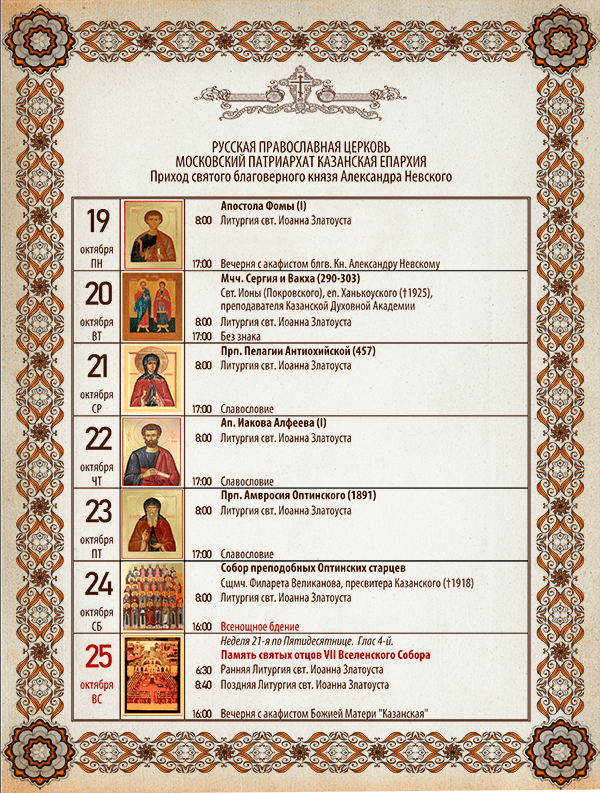
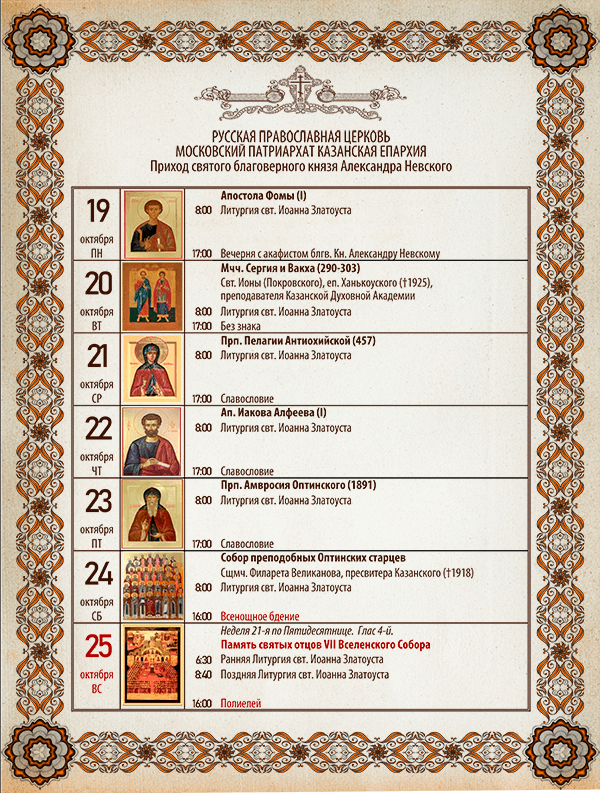
21 и 22 седмица по 50це

Changed region(s): [[0.12, 0.1513, 0.9, 0.9079], [0.78, 0.4842, 0.81, 0.5145], [0.72, 0.4842, 0.75, 0.5145]]

diff --git a/raspisanie.html b/raspisanie.html
@@ -92,6 +92,18 @@
           /></a>
         </div>
 
+        <div class="paspartu">
+          <h1 class="block_subtitle" style="color: rgb(0, 0, 0)">
+            22-я седмица по Пятидесятнице
+          </h1>
+          <a href="img\amain_img\22 седмица по 50_900.png"
+            ><img
+              class="img_hover"
+              src="img\amain_img\22 седмица по 50_600.png"
+              alt="Расписание Богослужений"
+          /></a>
+        </div>
+
         <!----------------------------------------------------->
       </div>
       <br /><br />
